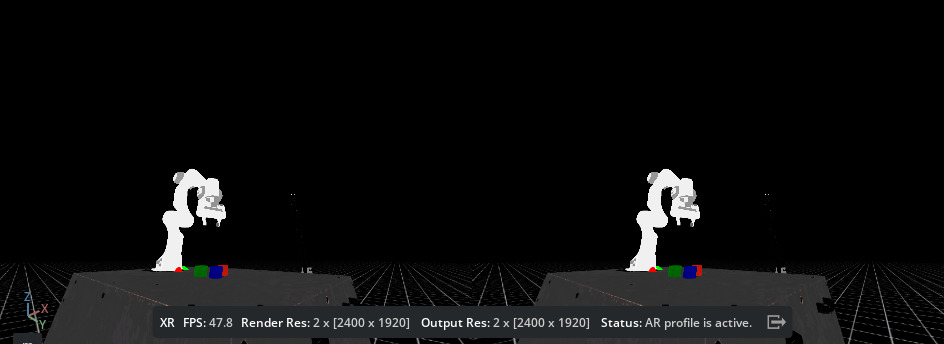
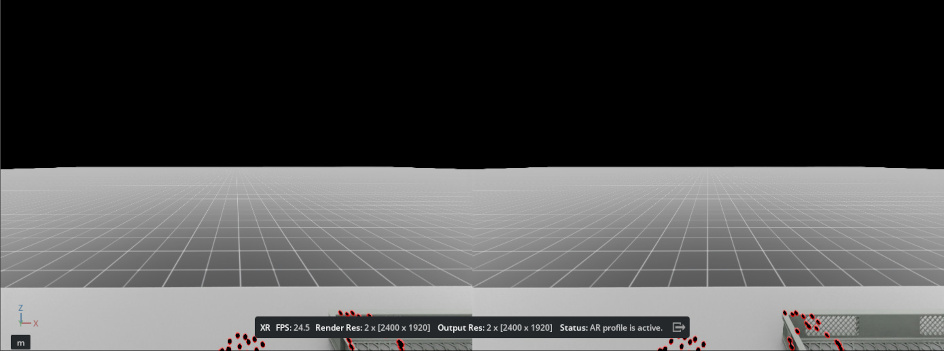
Updates teleop_se3_agent.py and CloudXR docs with GR1 task (#327)
# Description

<!--
Thank you for your interest in sending a pull request. Please make sure
to check the contribution guidelines.

Link:
https://isaac-sim.github.io/IsaacLab/main/source/refs/contributing.html
-->

This MR updated `teleop_se3_agent.py` for supporting
`Isaac-PickPlace-GR1T2-Abs-v0` task. In addition, we updated the CloudXR
docs.

## Type of change

<!-- As you go through the list, delete the ones that are not
applicable. -->

- New feature (non-breaking change which adds functionality)
- This change requires a documentation update

<!--
Example:

| Before | After |
| ------ | ----- |
| _gif/png before_ | _gif/png after_ |

To upload images to a PR -- simply drag and drop an image while in edit
mode and it should upload the image directly. You can then paste that
source into the above before/after sections.
-->

## Checklist

- [x] I have run the [`pre-commit` checks](https://pre-commit.com/) with
`./isaaclab.sh --format`
- [x] I have made corresponding changes to the documentation
- [x] My changes generate no new warnings
- [ ] I have added tests that prove my fix is effective or that my
feature works
- [ ] I have updated the changelog and the corresponding version in the
extension's `config/extension.toml` file
- [x] I have added my name to the `CONTRIBUTORS.md` or my name already
exists there

<!--
As you go through the checklist above, you can mark something as done by
putting an x character in it

For example,
- [x] I have done this task
[…]

diff --git a/scripts/environments/teleoperation/teleop_se3_agent.py b/scripts/environments/teleoperation/teleop_se3_agent.py
@@ -17,14 +17,27 @@ parser.add_argument("--num_envs", type=int, default=1, help="Number of environme
 parser.add_argument("--teleop_device", type=str, default="keyboard", help="Device for interacting with environment")
 parser.add_argument("--task", type=str, default=None, help="Name of the task.")
 parser.add_argument("--sensitivity", type=float, default=1.0, help="Sensitivity factor.")
+parser.add_argument(
+    "--enable_pinocchio",
+    action="store_true",
+    default=False,
+    help="Enable Pinocchio.",
+)
 # append AppLauncher cli args
 AppLauncher.add_app_launcher_args(parser)
 # parse the arguments
 args_cli = parser.parse_args()
 
 app_launcher_args = vars(args_cli)
+
+if args_cli.enable_pinocchio:
+    # Import pinocchio before AppLauncher to force the use of the version installed by IsaacLab and
+    # not the one installed by Isaac Sim pinocchio is required by the Pink IK controllers and the
+    # GR1T2 retargeter
+    import pinocchio  # noqa: F401
 if "handtracking" in args_cli.teleop_device.lower():
     app_launcher_args["xr"] = True
+
 # launch omniverse app
 app_launcher = AppLauncher(app_launcher_args)
 simulation_app = app_launcher.app
@@ -33,11 +46,19 @@ simulation_app = app_launcher.app
 
 
 import gymnasium as gym
+import numpy as np
 import torch
 
 import omni.log
 
+if "handtracking" in args_cli.teleop_device.lower():
+    from isaacsim.xr.openxr import OpenXRSpec
+
 from isaaclab.devices import OpenXRDevice, Se3Gamepad, Se3Keyboard, Se3SpaceMouse
+
+if args_cli.enable_pinocchio:
+    from isaaclab.devices.openxr.retargeters.humanoid.fourier.gr1t2_retargeter import GR1T2Retargeter
+    import isaaclab_tasks.manager_based.manipulation.pick_place  # noqa: F401
 from isaaclab.devices.openxr.retargeters.manipulator import GripperRetargeter, Se3AbsRetargeter, Se3RelRetargeter
 from isaaclab.managers import TerminationTermCfg as DoneTerm
 
@@ -46,17 +67,48 @@ from isaaclab_tasks.manager_based.manipulation.lift import mdp
 from isaaclab_tasks.utils import parse_env_cfg
 
 
-def pre_process_actions(delta_pose: torch.Tensor, gripper_command: bool) -> torch.Tensor:
-    """Pre-process actions for the environment."""
+def pre_process_actions(
+    teleop_data: tuple[np.ndarray, bool] | list[tuple[np.ndarray, np.ndarray, np.ndarray]], num_envs: int, device: str
+) -> torch.Tensor:
+    """Convert teleop data to the format expected by the environment action space.
+
+    Args:
+        teleop_data: Data from the teleoperation device.
+        num_envs: Number of environments.
+        device: Device to create tensors on.
+
+    Returns:
+        Processed actions as a tensor.
+    """
     # compute actions based on environment
     if "Reach" in args_cli.task:
+        delta_pose, gripper_command = teleop_data
+        # convert to torch
+        delta_pose = torch.tensor(delta_pose, dtype=torch.float, device=device).repeat(num_envs, 1)
         # note: reach is the only one that uses a different action space
         # compute actions
         return delta_pose
+    elif "PickPlace-GR1T2" in args_cli.task:
+        (left_wrist_pose, right_wrist_pose, hand_joints) = teleop_data[0]
+        # Reconstruct actions_arms tensor with converted positions and rotations
+        actions = torch.tensor(
+            np.concatenate([
+                left_wrist_pose,  # left ee pose
+                right_wrist_pose,  # right ee pose
+                hand_joints,  # hand joint angles
+            ]),
+            device=device,
+            dtype=torch.float32,
+        ).unsqueeze(0)
+        # Concatenate arm poses and hand joint angles
+        return actions
     else:
         # resolve gripper command
-        gripper_vel = torch.zeros(delta_pose.shape[0], 1, device=delta_pose.device)
-        gripper_vel[:] = -1.0 if gripper_command else 1.0
+        delta_pose, gripper_command = teleop_data
+        # convert to torch
+        delta_pose = torch.tensor(delta_pose, dtype=torch.float, device=device).repeat(num_envs, 1)
+        gripper_vel = torch.zeros((delta_pose.shape[0], 1), dtype=torch.float, device=device)
+        gripper_vel[:] = -1 if gripper_command else 1
         # compute actions
         return torch.concat([delta_pose, gripper_vel], dim=1)
 
@@ -65,6 +117,7 @@ def main():
     """Running keyboard teleoperation with Isaac Lab manipulation environment."""
     # parse configuration
     env_cfg = parse_env_cfg(args_cli.task, device=args_cli.device, num_envs=args_cli.num_envs)
+    env_cfg.env_name = args_cli.task
     # modify configuration
     env_cfg.terminations.time_out = None
     if "Lift" in args_cli.task:
@@ -140,6 +193,28 @@ def main():
         teleop_interface = Se3Gamepad(
             pos_sensitivity=0.1 * args_cli.sensitivity, rot_sensitivity=0.1 * args_cli.sensitivity
         )
+    elif "dualhandtracking_abs" in args_cli.teleop_device.lower() and "GR1T2" in args_cli.task:
+        # Create GR1T2 retargeter with desired configuration
+        gr1t2_retargeter = GR1T2Retargeter(
+            enable_visualization=True,
+            num_open_xr_hand_joints=2 * (int(OpenXRSpec.HandJointEXT.XR_HAND_JOINT_LITTLE_TIP_EXT) + 1),
+            device=env.unwrapped.device,
+            hand_joint_names=env.scene["robot"].data.joint_names[-22:],
+        )
+
+        # Create hand tracking device with retargeter
+        teleop_interface = OpenXRDevice(
+            env_cfg.xr,
+            hand=OpenXRDevice.Hand.BOTH,
+            retargeters=[gr1t2_retargeter],
+        )
+        teleop_interface.add_callback("RESET", reset_recording_instance)
+        teleop_interface.add_callback("START", start_teleoperation)
+        teleop_interface.add_callback("STOP", stop_teleoperation)
+
+        # Hand tracking needs explicit start gesture to activate
+        teleoperation_active = False
+
     elif "handtracking" in args_cli.teleop_device.lower():
         # Create EE retargeter with desired configuration
         if "_abs" in args_cli.teleop_device.lower():
@@ -180,15 +255,12 @@ def main():
         # run everything in inference mode
         with torch.inference_mode():
             # get device command
-            delta_pose, gripper_command = teleop_interface.advance()
+            teleop_data = teleop_interface.advance()
 
             # Only apply teleop commands when active
             if teleoperation_active:
-                delta_pose = delta_pose.astype("float32")
-                # convert to torch
-                delta_pose = torch.tensor(delta_pose, device=env.device).repeat(env.num_envs, 1)
-                # pre-process actions
-                actions = pre_process_actions(delta_pose, gripper_command)
+                # compute actions based on environment
+                actions = pre_process_actions(teleop_data, env.num_envs, env.device)
                 # apply actions
                 env.step(actions)
             else:

diff --git a/docs/source/how-to/cloudxr_teleoperation.rst b/docs/source/how-to/cloudxr_teleoperation.rst
@@ -147,11 +147,9 @@ There are two options to run the CloudXR Runtime Docker container:
       .. code:: bash
 
          ./isaaclab.sh -p scripts/environments/teleoperation/teleop_se3_agent.py \
-             --xr \
-             --task Isaac-Lift-Cube-Franka-IK-Abs-v0 \
-             --num_envs 1 \
-             --device cpu \
-             --teleop_device handtracking_abs
+             --task Isaac-PickPlace-GR1T2-Abs-v0 \
+             --teleop_device dualhandtracking_abs \
+             --enable_pinocchio
 
    #. You'll want to leave the container running for the next steps. But once you are finished, you can
       stop the containers with:
@@ -210,11 +208,9 @@ There are two options to run the CloudXR Runtime Docker container:
       .. code:: bash
 
          ./isaaclab.sh -p scripts/environments/teleoperation/teleop_se3_agent.py \
-             --xr \
-             --task Isaac-Lift-Cube-Franka-IK-Abs-v0 \
-             --num_envs 1 \
-             --device cpu \
-             --teleop_device handtracking_abs
+             --task Isaac-PickPlace-GR1T2-Abs-v0 \
+             --teleop_device dualhandtracking_abs \
+             --enable_pinocchio
 
 With Isaac Lab and the CloudXR Runtime running:
 
@@ -286,11 +282,9 @@ On your Isaac Lab workstation:
    .. code-block:: bash
 
       ./isaaclab.sh -p scripts/environments/teleoperation/teleop_se3_agent.py \
-          --xr \
-          --task Isaac-Lift-Cube-Franka-IK-Abs-v0 \
-          --num_envs 1 \
-          --device cpu \
-          --teleop_device handtracking_abs
+          --task Isaac-PickPlace-GR1T2-Abs-v0 \
+          --teleop_device dualhandtracking_abs \
+          --enable_pinocchio
 
    .. note::
       Recall that the script above should either be run within the Isaac Lab Docker container
@@ -359,6 +353,7 @@ Back on your Apple Vision Pro:
       and build teleoperation and imitation learning workflows with Isaac Lab.
 
 #. When you are finished with the example, click **Disconnect** to disconnect from Isaac Lab.
+
 
 
 .. _develop-xr-isaac-lab:
